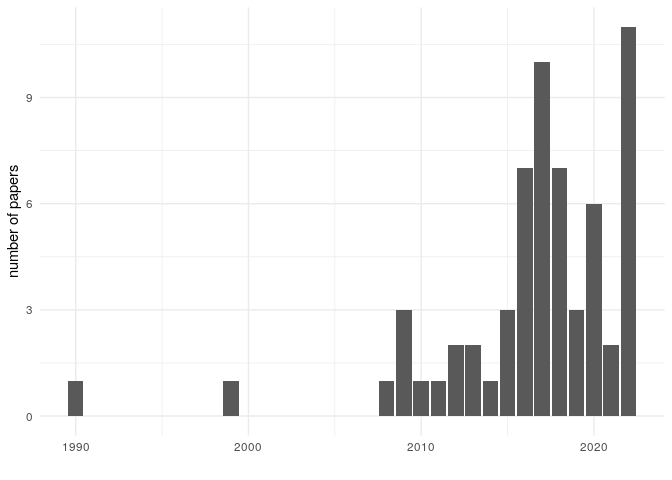
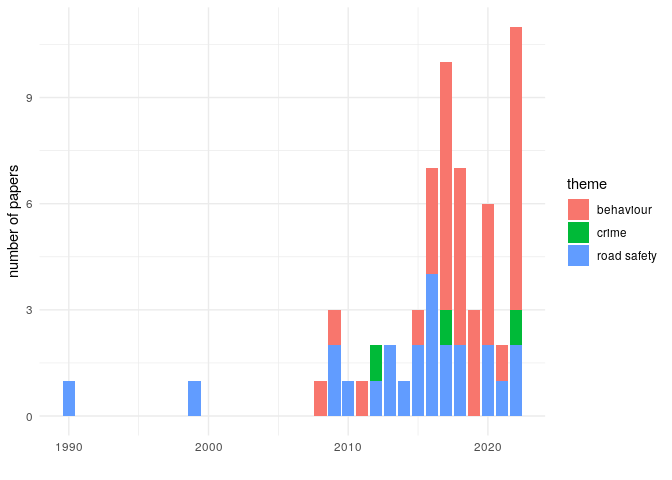
update

diff --git a/README.md b/README.md
@@ -1,26 +1,23 @@
 Cycling and Road Lighting: A Review
 ================
 
-# Abstract
+**Abstract**
 
-Background: Evidence shows that darkness discourages people from
+<Background>Evidence shows that darkness discourages people from
 cycling. This is mostly due to a higher perceived danger of cyclists at
-night from motorised traffic and personal security. This may
-disproportionately affect women, children, the elderly, and
-disadvantaged groups.
-
-Aim: This paper provides a review on the scientific literature that
+night from motorised traffic and personal security. This
+disproportionately affect women, the elderly, and disadvantaged groups.
+<Aim>This paper provides a review on the scientific literature that
 intersects between cycling and road lighting to better understand the
-relationship between both terms.
+relationship between both terms. <Method>We used a hybrid systematic and
+snowballing method. TBC studies on several disciplines such as
+engineering and technology, transportation, road safety, and public
+health were reviewed. <Results>The literature suggests that… Gaps in the
+literature are… <Conclusion>
 
-Method: We used a hybrid systematic and snowballing method. TBC studies
-on several disciplines such as transportation, public health, road
-safety, criminology, social inequalities, and engineering and technology
-were reviewed.
+**Keywords**
 
-Results: The literature suggests that… Gaps in the literature are…
-
-Conclusion:
+Cycling; road lighting; road safety; personal security; inequalities
 
 # Introduction
 
@@ -52,6 +49,8 @@ research specifically focussed at the intersection between cycling and
 road lighting.
 
 The review is guided by the following questions:
+
+<!-- replace darkness with road lighting? -->
 
 1.  To what extent does darkness influence cycling behaviour?
 
@@ -121,16 +120,22 @@ chart of included studies is shown in Figure 1.
 
 # Results
 
-<subject area>The scientific literature was found to be broadly spread
+<Subject area>The scientific literature was found to be broadly spread
 across several disciplines, including engineering and technology,
-transportation, public health, road safety, and criminology.
+transportation, road safety, and public health.
 
-<year>Figure 1 shows the number of papers reviewed by year of
-publication.
+<Themes>Five main themes emerged: 1. Cycling behaviour and lighting 2.
+Cycling collisions and lighting 3. Cycling, crime and lighting 4.
+Cycling inequalities in lighting 5. Proper lighting for cyclists
+(i.e. optimal use of lighting to enhance cyclists reassurance while
+respecting the environment)
+
+<Visual>Figure 1 shows the number of papers reviewed by theme and year
+of publication.
 
 ![](README_files/figure-gfm/fig2-1.png)<!-- -->
 
-<study type>Most of the studies were empirical papers (53) and a few
+<Study type>Most of the studies were empirical papers (53) and a few
 were reviews (9).
 <!-- <type of empirical papers> Most of the empirical studies were quantitative (), five of them qualitative, and one of them mixed methods. -->
 
@@ -232,6 +237,21 @@ developed world cities
 </td>
 <td style="text-align:left;">
 review
+</td>
+</tr>
+<tr>
+<td style="text-align:left;">
+Schneider, Wiers, and Schmitz (2022)
+</td>
+<td style="text-align:right;">
+2022
+</td>
+<td style="text-align:left;">
+Perceived Safety and Security Barriers to Walking and Bicycling:
+Insights from Milwaukee
+</td>
+<td style="text-align:left;">
+empirical
 </td>
 </tr>
 <tr>
@@ -983,6 +1003,21 @@ type
 <tbody>
 <tr>
 <td style="text-align:left;">
+Schneider, Wiers, and Schmitz (2022)
+</td>
+<td style="text-align:right;">
+2022
+</td>
+<td style="text-align:left;">
+Perceived Safety and Security Barriers to Walking and Bicycling:
+Insights from Milwaukee
+</td>
+<td style="text-align:left;">
+empirical
+</td>
+</tr>
+<tr>
+<td style="text-align:left;">
 Appleyard and Ferrell (2017)
 </td>
 <td style="text-align:right;">
@@ -1387,6 +1422,8 @@ cycling and road lighting is needed.
 <!-- Comparing resulting estimates of change in cycling and safety levels will help assess the impact of lighting in those locations, but there is much else to do in this field beyond what is possible in a 24 month research project. -->
 <!-- Further work is needed to better understand how lighting characteristics such as illuminance and the spatial distribution of lighting influence cycling rates and cyclist safety. -->
 <!-- To ensure the policy relevance of future work into road lighting and cycling, it is important that the findings feed into larger models of cycling uptake to support cost effective investment in road and path lighting [@fotios_pilot_2017], as part of balanced packages of interventions, for the benefit of people who stand to benefit from better walking, cycling and wheeling provision worldwide. -->
+
+# Declaration of interest statement
 
 # References
 
